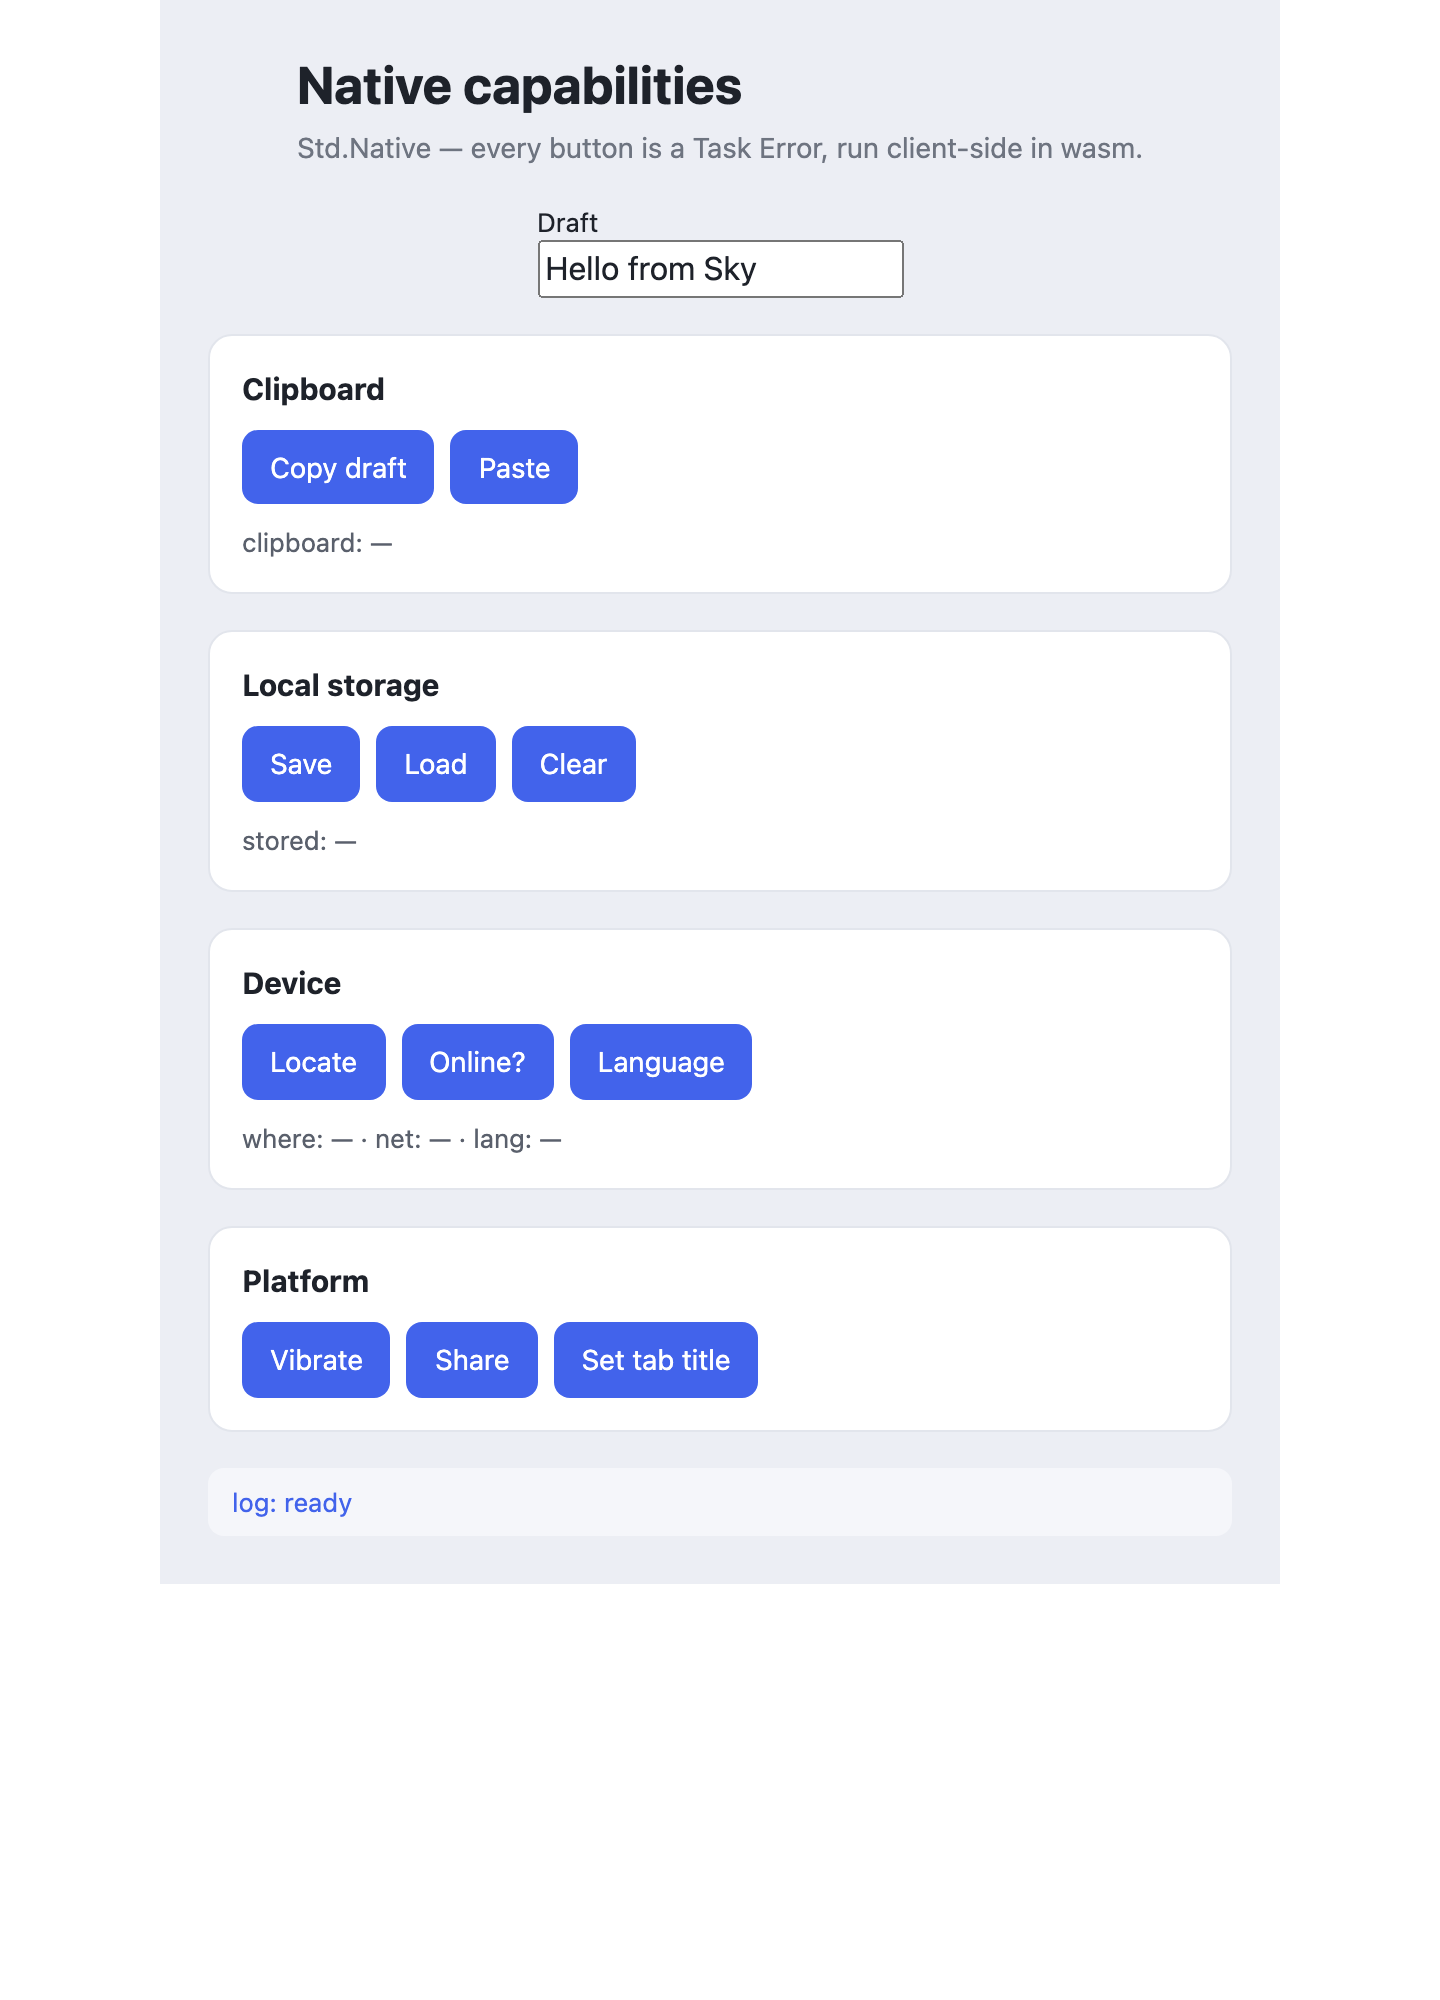
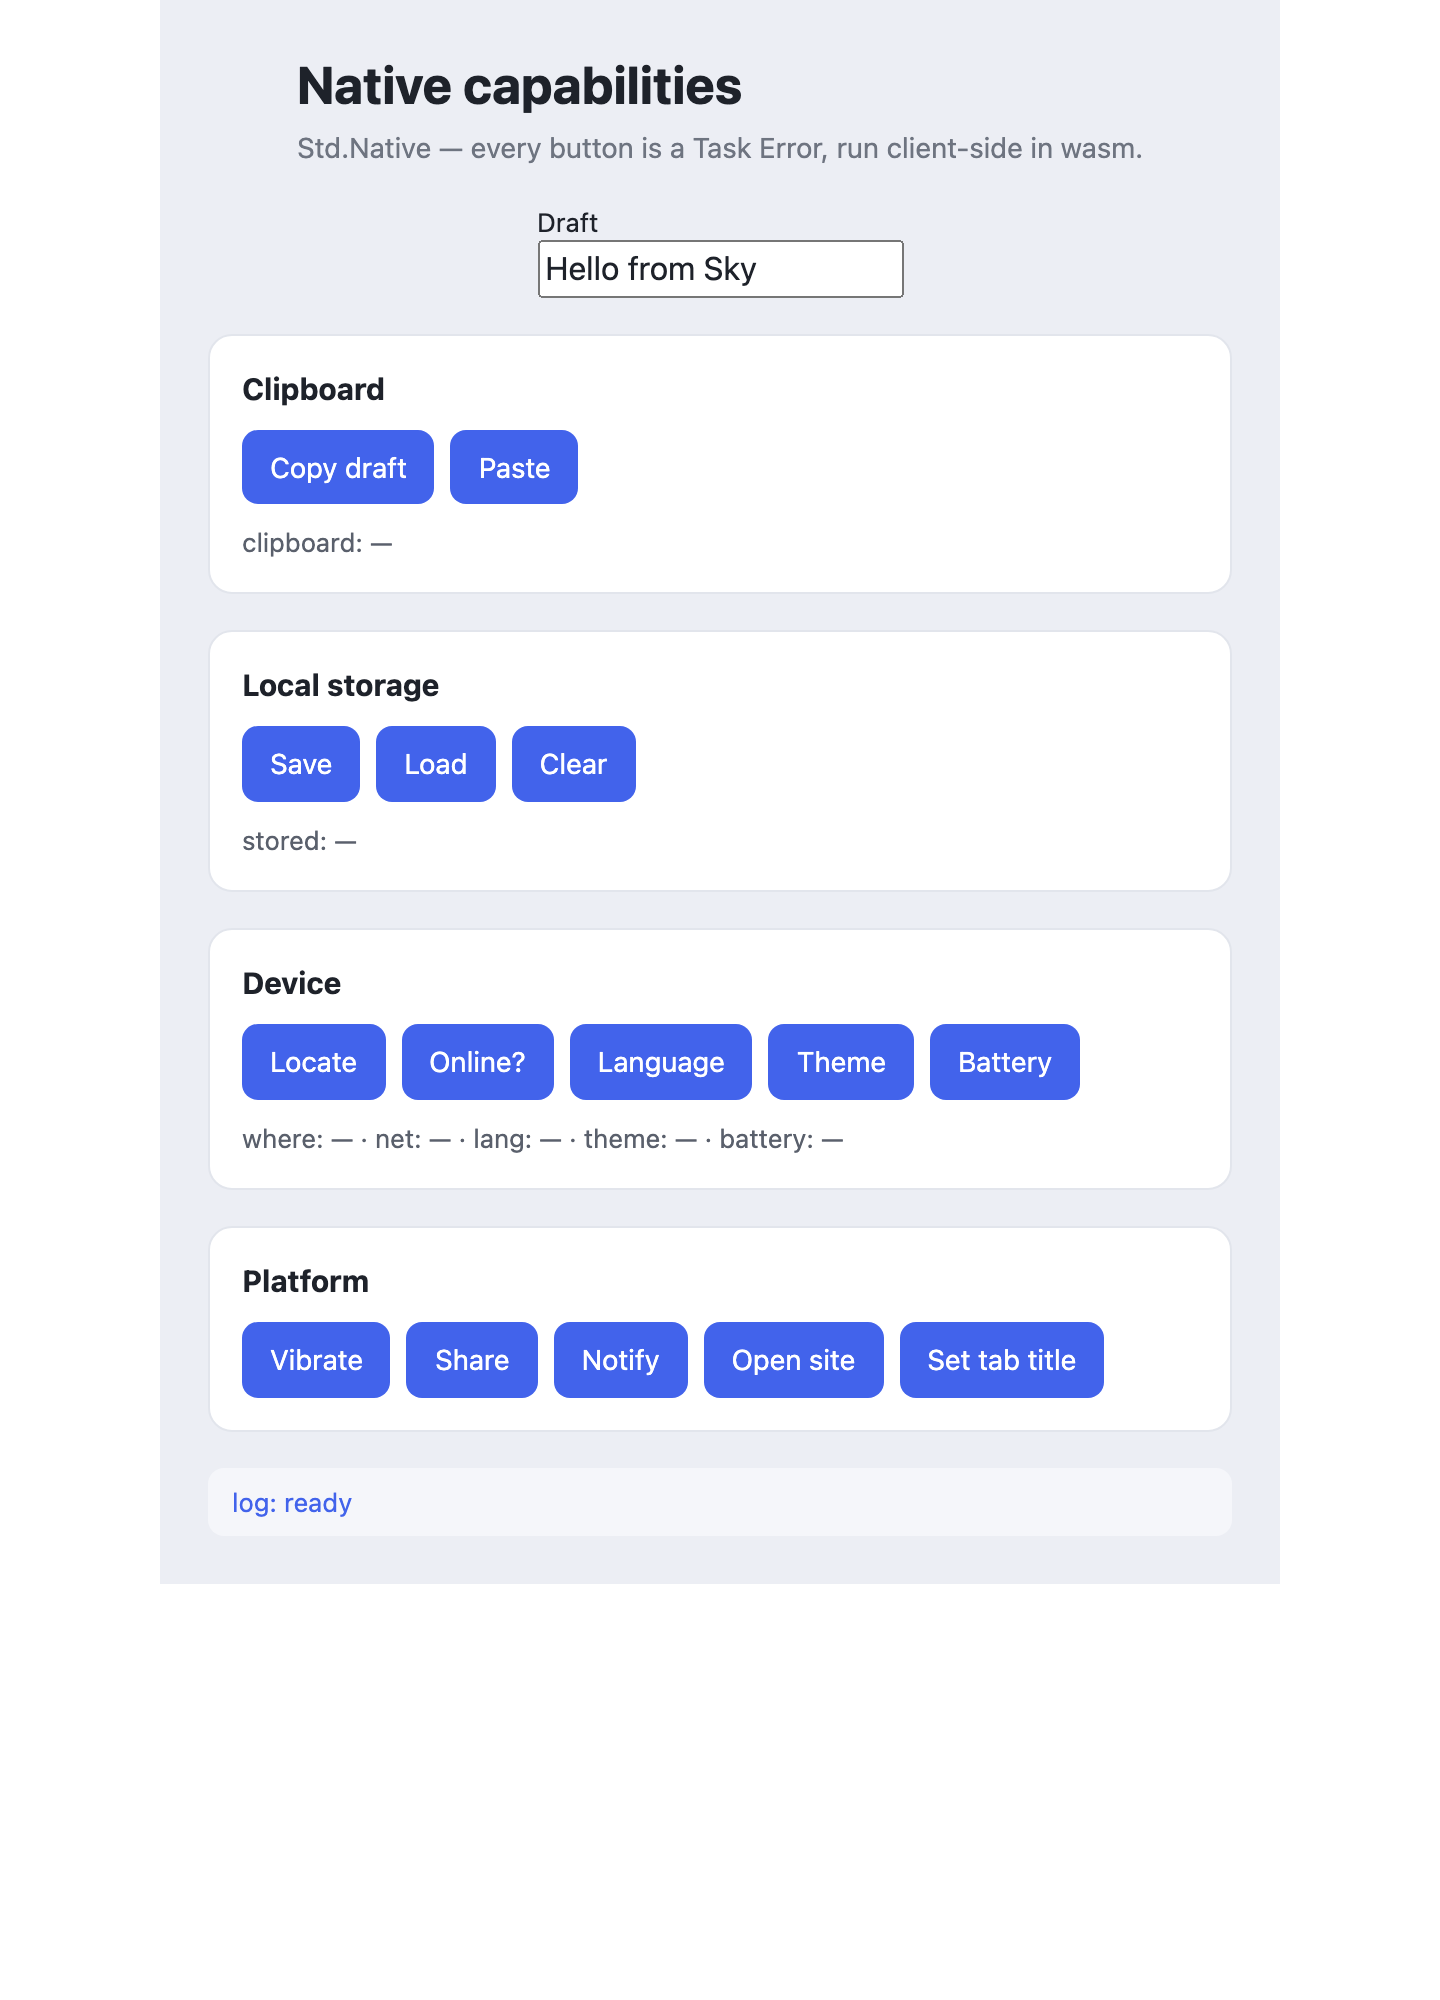
feat(spa): theme / open-url / notifications / battery native APIs
Rounds out the Std.Native client-capability surface with four more of the most
commonly used device APIs, same effect-boundary discipline:

  - prefersDarkMode : () -> Task Error Bool          (prefers-color-scheme media query)
  - openUrl         : String -> Task Error ()        (window.open — external link)
  - notify          : String -> String -> Task Error () (Web Notifications; requests permission)
  - batteryStatus   : () -> Task Error BatteryStatus (navigator.getBattery)

BatteryStatus { charging : Bool, level : Float } is a runtime-backed record
(rt.BatteryStatus, lower.rs) — a third exercise of the alias in the return
direction, now with a Bool+Float shape. Each capability has a Native_<cap> js
kernel + Err !js stub + rt test; all inherit the ClientEffect split
classification via the Native_ prefix.

openUrl uses `window.open(url, "_blank", "noopener")` for opener safety; per the
HTML spec that ALWAYS returns null, so null is NOT treated as failure (only a
thrown exception is) — otherwise every successful noopener open reported Err.

examples/64-spa-native extended: the Device section gains Theme + Battery, the
Platform section gains Notify + Open site. Screenshot + README table updated.

Verified e2e (headless Chromium against the generated split): theme reads the
dark media query, battery returns a real level (record ABI), openUrl returns Ok,
and notify's success path is validated with a granted Notification stub
[…]

Changed region(s): [[0.4062, 0.651, 0.7812, 0.713], [0.5, 0.496, 0.75, 0.589], [0.4062, 0.558, 0.4375, 0.589]]

diff --git a/runtime-go/rt/native_wasm.go b/runtime-go/rt/native_wasm.go
@@ -294,3 +294,111 @@ func Native_setTitle(title any) any {
 		return Ok[any, any](struct{}{})
 	}
 }
+
+// Native_prefersDarkMode is the Std.Native.prefersDarkMode kernel
+// (`() -> Task Error Bool`) — reads the prefers-color-scheme media query.
+func Native_prefersDarkMode(_ any) any {
+	return func() any {
+		win := js.Global()
+		mm := win.Get("matchMedia")
+		if mm.Type() != js.TypeFunction {
+			return Err[any, any](ErrFfi("matchMedia: unavailable in this runtime"))
+		}
+		res, e := safeJsCall(win, "matchMedia", "(prefers-color-scheme: dark)")
+		if e != nil {
+			return Err[any, any](ErrFfi("matchMedia: " + e.Error()))
+		}
+		return Ok[any, any](res.Get("matches").Bool())
+	}
+}
+
+// Native_openUrl is the Std.Native.openUrl kernel (`String -> Task Error ()`) —
+// opens the URL in a new tab / the system browser. A suppressed popup (null
+// return) is Err.
+func Native_openUrl(url any) any {
+	u := fmt.Sprintf("%v", url)
+	return func() any {
+		win := js.Global()
+		if win.Get("open").Type() != js.TypeFunction {
+			return Err[any, any](ErrFfi("window.open: unavailable in this runtime"))
+		}
+		// `noopener` severs window.opener so the opened page can't drive our tab —
+		// but per the HTML spec it also makes window.open ALWAYS return null, so a
+		// null return is NOT a failure signal here. A genuinely blocked popup
+		// throws (or is silently dropped); we treat a non-throwing call as issued.
+		if _, e := safeJsCall(win, "open", u, "_blank", "noopener"); e != nil {
+			return Err[any, any](ErrFfi("window.open: " + e.Error()))
+		}
+		return Ok[any, any](struct{}{})
+	}
+}
+
+// Native_notify is the Std.Native.notify kernel (`String -> String -> Task Error
+// ()`). Requests Notification permission if needed, then shows one. Denial /
+// absence is Err (e.g. an iOS WKWebView disables the Web Notification API).
+func Native_notify(title any, body any) any {
+	t := fmt.Sprintf("%v", title)
+	b := fmt.Sprintf("%v", body)
+	return func() any {
+		ctor := js.Global().Get("Notification")
+		if !ctor.Truthy() {
+			return Err[any, any](ErrFfi("notifications: unavailable in this runtime"))
+		}
+		show := func() SkyResult[any, any] {
+			opts := js.Global().Get("Object").New()
+			opts.Set("body", b)
+			// `new Notification(title, opts)` — js.Value.New is the `new` operator;
+			// it panics if the constructor throws, so guard it.
+			var built bool
+			func() {
+				defer func() { recover() }()
+				ctor.New(t, opts)
+				built = true
+			}()
+			if !built {
+				return Err[any, any](ErrFfi("notifications: could not be shown"))
+			}
+			return Ok[any, any](struct{}{})
+		}
+		perm := ctor.Get("permission").String()
+		switch perm {
+		case "granted":
+			return show()
+		case "denied":
+			return Err[any, any](ErrPermissionDenied("notifications: permission denied"))
+		default:
+			// "default" — request permission (Promise<string>), then show.
+			req := ctor.Get("requestPermission")
+			if req.Type() != js.TypeFunction {
+				return Err[any, any](ErrFfi("notifications: cannot request permission"))
+			}
+			return blockOnJsPromise(ctor.Call("requestPermission"), func(a []js.Value) SkyResult[any, any] {
+				if len(a) > 0 && a[0].Type() == js.TypeString && a[0].String() == "granted" {
+					return show()
+				}
+				return Err[any, any](ErrPermissionDenied("notifications: permission not granted"))
+			})
+		}
+	}
+}
+
+// Native_batteryStatus is the Std.Native.batteryStatus kernel
+// (`() -> Task Error BatteryStatus`). navigator.getBattery() returns a Promise.
+func Native_batteryStatus(_ any) any {
+	return func() any {
+		nav := js.Global().Get("navigator")
+		if !nav.Truthy() || nav.Get("getBattery").Type() != js.TypeFunction {
+			return Err[any, any](ErrFfi("battery: unavailable in this runtime"))
+		}
+		return blockOnJsPromise(nav.Call("getBattery"), func(a []js.Value) SkyResult[any, any] {
+			if len(a) == 0 || !a[0].Truthy() {
+				return Err[any, any](ErrFfi("battery: no status returned"))
+			}
+			bm := a[0]
+			return Ok[any, any](BatteryStatus{
+				Charging: bm.Get("charging").Bool(),
+				Level:    bm.Get("level").Float(),
+			})
+		})
+	}
+}

diff --git a/runtime-go/rt/native_test.go b/runtime-go/rt/native_test.go
@@ -41,6 +41,16 @@ func TestShareContentShape(t *testing.T) {
 	}
 }
 
+// BatteryStatus must keep the field order + types the codegen alias relies on
+// (Std_Native_BatteryStatus_R → rt.BatteryStatus). Positional construction is the
+// compile-time guard.
+func TestBatteryStatusShape(t *testing.T) {
+	b := BatteryStatus{true, 0.85}
+	if b.Charging != true || b.Level != 0.85 {
+		t.Error("BatteryStatus fields are Charging, Level in that order")
+	}
+}
+
 // Every Std.Native capability is client-only: off a client build each must
 // return a Task that yields Err, never a silent zero-value or a panic.
 func TestNativeCapabilitiesAreErrOffClient(t *testing.T) {
@@ -57,6 +67,9 @@ func TestNativeCapabilitiesAreErrOffClient(t *testing.T) {
 		{"isOnline", Native_isOnline},
 		{"language", Native_language},
 		{"setTitle", Native_setTitle},
+		{"prefersDarkMode", Native_prefersDarkMode},
+		{"openUrl", Native_openUrl},
+		{"batteryStatus", Native_batteryStatus},
 	}
 	assertErrThunk := func(name string, v any) {
 		thunk, ok := v.(func() any)
@@ -74,6 +87,7 @@ func TestNativeCapabilitiesAreErrOffClient(t *testing.T) {
 	for _, c := range cases {
 		assertErrThunk(c.name, c.kernel(nil))
 	}
-	// storageSet is the sole 2-arg capability.
+	// The 2-arg capabilities.
 	assertErrThunk("storageSet", Native_storageSet(nil, nil))
+	assertErrThunk("notify", Native_notify(nil, nil))
 }

diff --git a/runtime-go/rt/native_notjs.go b/runtime-go/rt/native_notjs.go
@@ -87,3 +87,31 @@ func Native_setTitle(_ any) any {
 			"Native.setTitle is a client-only capability (no document in this runtime)"))
 	}
 }
+
+func Native_prefersDarkMode(_ any) any {
+	return func() any {
+		return Err[any, any](ErrNetwork(
+			"Native.prefersDarkMode is a client-only capability (no media queries in this runtime)"))
+	}
+}
+
+func Native_openUrl(_ any) any {
+	return func() any {
+		return Err[any, any](ErrNetwork(
+			"Native.openUrl is a client-only capability (no window in this runtime)"))
+	}
+}
+
+func Native_notify(_ any, _ any) any {
+	return func() any {
+		return Err[any, any](ErrNetwork(
+			"Native.notify is a client-only capability (no notifications in this runtime)"))
+	}
+}
+
+func Native_batteryStatus(_ any) any {
+	return func() any {
+		return Err[any, any](ErrNetwork(
+			"Native.batteryStatus is a client-only capability (no battery API in this runtime)"))
+	}
+}

diff --git a/runtime-go/rt/native.go b/runtime-go/rt/native.go
@@ -26,3 +26,14 @@ type ShareContent struct {
 	Text  string
 	Url   string
 }
+
+// BatteryStatus is the Go counterpart of Std.Native.BatteryStatus
+// (`{ charging : Bool, level : Float }`). Runtime-backed record
+// (Std_Native_BatteryStatus_R → rt.BatteryStatus, lower.rs), so the
+// Native_batteryStatus kernel's value narrows reflection-free. Field ORDER +
+// types MUST match the Sky record's declaration order (charging, level →
+// Charging bool, Level float64).
+type BatteryStatus struct {
+	Charging bool
+	Level    float64
+}

diff --git a/rust/crates/lower/src/lower.rs b/rust/crates/lower/src/lower.rs
@@ -1566,6 +1566,8 @@ fn runtime_backed_record(go_name: &str) -> Option<&'static str> {
         "Std_Native_Coords_R" => Some("rt.NativeCoords"),
         // rt.ShareContent { Title string; Text string; Url string }
         "Std_Native_ShareContent_R" => Some("rt.ShareContent"),
+        // rt.BatteryStatus { Charging bool; Level float64 }
+        "Std_Native_BatteryStatus_R" => Some("rt.BatteryStatus"),
         _ => None,
     }
 }

diff --git a/.claude/AUTONOMOUS_GOAL.md b/.claude/AUTONOMOUS_GOAL.md
@@ -1,52 +1,27 @@
-# AUTONOMOUS GOAL — Sky.Spa auto-split, e2e #1–#3 (branch `exp/spa`)
+# Autonomous mandate — Sky.Spa native capabilities (exp/spa)
 
-## Verbatim mandate (user, 2026-08-23)
+Captured 2026-08-24. User (attended, perms + continuity granted upfront):
 
-> ok agreed, please proceed in fully unattended + autonomous mode for e2e 1-3
+> keep going, fully unattended + autonomous, don't ask me permissions or
+> continuity, until fully e2e implemented/tested/validated (if possible).
 
-Referring to the three items I proposed and the user agreed to:
+## Interpretation (the durable anchor)
+Extend the `Std.Native` client-capability surface with the most commonly used
+native/device APIs, each e2e IMPLEMENTED + TESTED + VALIDATED (run the generated
+wasm in a real browser, not just built). Complete the dedicated example
+(examples/64-spa-native) as the manual+e2e harness, incl. multi-platform
+screenshots to match its siblings (web done; iOS, and Android if the emulator is
+stable). Keep the auto-split correct (native = ClientEffect). Update docs +
+memory. Commit at phase boundaries on exp/spa. NO merge to main, NO release/tag.
 
-1. **Generalize the generator to a real app** — Msg-arg typed Req fields,
-   whole-model fallback record, multi-module apps, non-primitive field codecs —
-   so `sky spa-split` handles a todos-in-one-project, not just the skeleton.
-2. **Fail-closed effect-family guard** — an unrecognized effect kernel becomes a
-   build failure (the analysis/generator must never default an unknown effect to
-   client/pure), closing the last soundness seam.
-3. **Server-push / subscription channel** — SSE or WebSocket for server→client
-   push, closing clojj's #168 WebSocket case and cross-client `Cmd.publish`.
+## Done = 
+- A comprehensive common-native-API set, each with a Native_<cap> js kernel +
+  Err !js stub + rt test + e2e browser validation.
+- example 64 exercises them all, web+iOS screenshots present (Android if stable).
+- All gates green (rt native, spa_split_flow incl. client-side regression,
+  clean-slate example build, census).
+- "(if possible)" carve-outs honestly reported: Android emulator instability,
+  Phase 3 signing/store submission (blocked on the user's Apple/Play accounts).
 
-Order: **#2 → #1 → #3** (lock the soundness guarantee, then make it eat real
-apps, then add push). Each phase: build → verify (myself, on generated output) →
-commit. Security spine throughout: an effectful value/function never reaches
-client code, and it is a BUILD FAILURE if it could.
-
-## Done means
-
-`sky spa-split` handles a real one-project app (todos-in-one-project) end to end:
-generates a wasm frontend + native backend + shared contract that BUILD and
-round-trip; the generated frontend is provably free of effectful code
-(leak-check + the fail-closed guard); and the app supports server→client push so
-a WebSocket-style / cross-client-fanout app works. Verified on generated output.
-
-## Decisions captured upfront (fully autonomous, no check-ins)
-
-- Fully autonomous + unattended. No permission/continuity asks. Halt ONLY on a
-  genuine blocker (a real ambiguity I cannot resolve from code/goal, an external
-  wall). Describe it, then continue on direction.
-- Branch `exp/spa`. NO merge to `main`, NO release/tag unless the user says so.
-- Verify continuously; nothing is "done" until I've run the generated output
-  myself (build both + round-trip + leak-check).
-
-## State at mandate start
-
-Auto-split B0–B4 complete + verified: `sky spa-partition` (inference/report),
-secure-by-default rule (any effect → server), B0 Msg-constant precision, B1
-read/write sets, B2 walking skeleton (proven), B3/B4 `sky spa-split` generator
-(e2e on the skeleton: leak-check clean, round-trip verified). Design +
-progress: `docs/skyspa/auto-split.md` (§11–§15).
-
-## Loop / durable state
-
-Drive #2 → #1 → #3, each verified + committed on `exp/spa`. Progress tracker:
-`docs/skyspa/auto-split.md`. Continue until all three work e2e on a real app,
-then report. Genuine blocker → describe + await.
+## Stop only on a genuine blocker (external auth, irreversible action needing
+## sign-off). Otherwise continue.

diff --git a/examples/64-spa-native/README.md b/examples/64-spa-native/README.md
@@ -18,8 +18,8 @@ the effect.
 |---|---|---|---|
 | Clipboard | Copy / Paste | `clipboardWrite` / `clipboardRead` | `String -> Task Error ()` · `() -> Task Error String` |
 | Local storage | Save / Load / Clear | `storageSet` / `storageGet` / `storageRemove` | `String -> String -> Task Error ()` · `String -> Task Error (Maybe String)` · `String -> Task Error ()` |
-| Device | Locate / Online? / Language | `geolocation` / `isOnline` / `language` | `() -> Task Error Coords` · `() -> Task Error Bool` · `() -> Task Error String` |
-| Platform | Vibrate / Share / Set tab title | `vibrate` / `share` / `setTitle` | `Int -> Task Error ()` · `ShareContent -> Task Error ()` · `String -> Task Error ()` |
+| Device | Locate / Online? / Language / Theme / Battery | `geolocation` / `isOnline` / `language` / `prefersDarkMode` / `batteryStatus` | `() -> Task Error Coords` · `() -> Task Error Bool` · `() -> Task Error String` · `() -> Task Error Bool` · `() -> Task Error BatteryStatus` |
+| Platform | Vibrate / Share / Notify / Open site / Set tab title | `vibrate` / `share` / `notify` / `openUrl` / `setTitle` | `Int -> Task Error ()` · `ShareContent -> Task Error ()` · `String -> String -> Task Error ()` · `String -> Task Error ()` · `String -> Task Error ()` |
 
 Note the effect-boundary discipline: a **write** returns `Task Error ()`, a
 **read** returns `Task Error <value>`, and a read that can legitimately find

diff --git a/docs/coverage/ledger.md b/docs/coverage/ledger.md
@@ -27,15 +27,15 @@ Every number below was measured from the tree. The stdlib denominator is cross-c
 | verdict `weaker` | 0 |
 | corpus units | 80 |
 | stdlib modules (denominator) | 91 |
-| stdlib entries (denominator) | 1852 |
+| stdlib entries (denominator) | 1857 |
 
 ## Uncovered
 
 | metric | count | % of denominator |
 |---|---|---|
 | stdlib modules imported by nothing | 7 | 7.7% |
-| symbols with zero qualified references (STRICT — the number any uncovered claim uses) | 823 | 44.4% |
-| symbols unreferenced under the generous rule | 741 | 40.0% |
+| symbols with zero qualified references (STRICT — the number any uncovered claim uses) | 823 | 44.3% |
+| symbols unreferenced under the generous rule | 741 | 39.9% |
 | stdlib modules imported ONLY by a root `tests/` suite (no application builds them) | 2 | — |
 
 ### Surfaces with zero new cover
